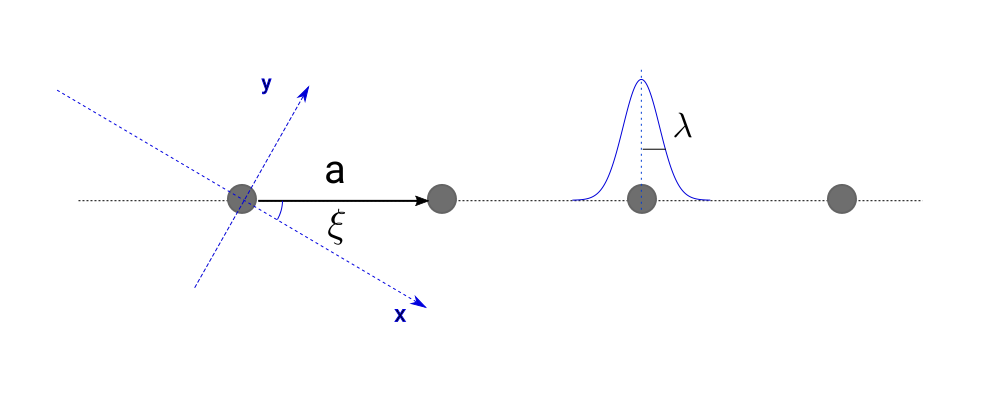
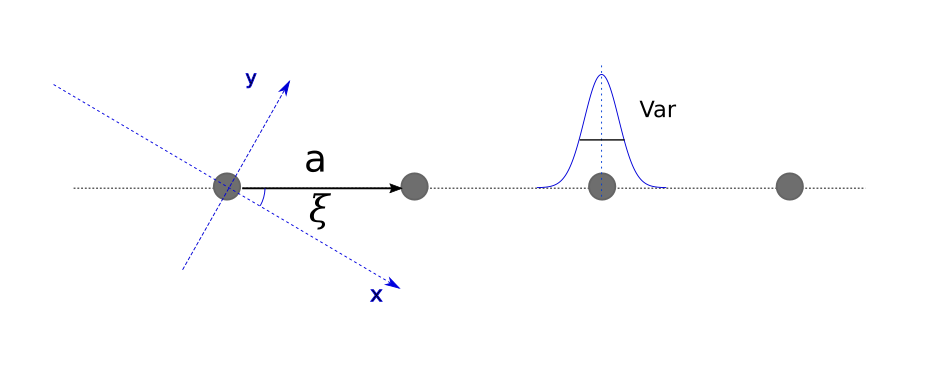
Update interference function 1d tutorial in the part related to decay functions

diff --git a/content/documentation/working-with-python/interference/lattice1d/index.md b/content/documentation/working-with-python/interference/lattice1d/index.md
@@ -1,11 +1,11 @@
 +++
-title = "1D lattice"
+title = "Interference function of one-dimensional lattice"
 weight = 10
 +++
 
-## Interference function of 1D lattice
+## Interference function of one-dimensional lattice
 
-A one-dimensional lattice can be viewed as a chain of particles placed at regular intervals on a single axis. The plot below represents one possible use case, where infinitely long (or very long) boxes are placed at nodes of a 1d lattice to form a grating.
+A one dimensional lattice can be viewed as a chain of particles placed at regular intervals on a single axis. The plot below represents one possible use case, where infinitely long (or very long) boxes are placed at nodes of a 1d lattice to form a grating.
 
 {{< figscg src="particles_at_1d_latice.jpg" width="600px" class="center">}}
 
@@ -31,9 +31,38 @@ xi       : rotation of the lattice with respect to the x-axis, in radians
 
 When the beam azimuthal angle $\varphi_f$ is zero, the beam direction coincides with x-axis. In this case, the $\xi$ angle can be considered as the lattice rotation with respect to the beam.
 
+### Position variance
+
+Position variance parameter `Var`, as depicted on top plot, allows to introduce uncertainty for each particle position around lattice point 
+by applying corresponding Debye-Waller factor.
+
+It can be set using `setPositionVariance(value)` method, where `value` is given in $nm^2$.
+
+{{< highlight python >}}
+
+lattice = InterferenceFunction1DLattice(100*nm, 0.0*deg)
+lattice.setPositionVariance(0.1)
+{{< /highlight >}}
+
+By default variance is set to zero.
+
 ### Decay function
 
-To account for finite size effects of the lattice, a decay function should be assigned to the interference function. This function encodes the loss of coherent scattering from lattice points with increasing distance between them. The origin of this loss of coherence could be attributed to the coherence length of the beam or to the domain structure of the lattice. A decay function can be set using the setDecayFunction(decay) method of the 1D interference function.
+To account for finite size effects of the lattice, a decay function should be assigned to the interference function. This function encodes the loss of coherent scattering from lattice points with increasing distance between them. The origin of this loss of coherence could be attributed to the coherence length of the beam or to the domain structure of the lattice. 
+
+On picture below one dimensional lattice is represented in real space as a probability function to find lattice point at given coordinate.
+In the presence of decay function, attenuating constructive interference, probability can be given as
+$\sum F\_{decay}\cdot\delta(x-na)$.
+
+{{< figscg src="lattice1d_decay_real.png" width="800px" class="center">}}
+
+Fourier transformation, applied to the $P(x)$ distribution, provides scattering amplitude in reciprocal space. For exponential decay low with decay length $\lambda$, 
+as depicted on plot above, it will give Cauchy distribution with characteristic width $1/\lambda$ in reciprocal space, as shown below.
+
+{{< figscg src="lattice1d_decay_reciprocal.png" width="800px" class="center">}}
+
+A decay function can be set using the setDecayFunction(decay) method of the 1D interference function.
+
 
 {{< highlight python >}}
 
@@ -42,25 +71,31 @@ iff.setDecayFunction(FTDecayFunction1DCauchy(1000.0*nm))
 
 {{< /highlight >}}
 
-BornAgain supports four types of one-dimensional decay functions:
+### List of decay functions
 
-{{< highlight python >}}
+BornAgain supports four types of one-dimensional decay functions. 
 
-# One-dimensional Cauchy decay function
-FTDecayFunction1DCauchy(decay_length)
++ `FTDecayFunction1DCauchy(decay_length)`
 
-# One-dimensional Gauss decay function
-FTDecayFunction1DGauss(decay_length)
+One-dimensional Cauchy decay function in reciprocal space,
+corresponds to $exp(-|x|/\lambda)$ in real space.
 
-# One-dimensional triangle decay function
-FTDecayFunction1DTriangle(decay_length)
 
-# One-dimensional pseudo-Voigt decay function
-FTDecayFunction1DVoigt(decay_length, eta)
++ `FTDecayFunction1DGauss(decay_length)`
 
-{{< /highlight >}}
+One-dimensional Gauss decay function in reciprocal space,
+corresponds to $exp(-x^2/(2*\lambda^2))$ in real space.
 
-The parameter `decay_length`, given in nanometers, is used to set the characteristic length scale at which loss of coherence takes place. In the case of the pseudo-Voigt distribution an additional dimensionless parameter `eta` is used to balance between the Gaussian and Cauchy profiles.
++ `FTDecayFunction1DTriangle(decay_length)`
+
+One-dimensional triangle decay function in reciprocal space,
+corresponds to $1-|x|/\lambda$, if $|x|<\lambda$, in real space.
+
++ `FTDecayFunction1DVoigt(decay_length, eta)`
+
+One-dimensional pseudo-Voigt decay function in reciprocal space, corresponds to $eta*Gauss + (1-eta)*Cauchy$.
+
+The parameter $\lambda$ (decay length) is given in nanometers, it is used to set the characteristic length scale at which loss of coherence takes place. In the case of the pseudo-Voigt distribution an additional dimensionless parameter `eta` is used to balance between the Gaussian and Cauchy profiles.
 
 ### Particle Density
 
@@ -87,7 +122,7 @@ To achieve such a setup, the following code should be used.
 {{< highlight python >}}
 
 layout = ba.ParticleLayout()
-
+ 
 box = ba.Particle(material, ba.FormFactorBox(10*nm, 1000*nm, 10*nm))
 layout.addParticle(box)
 layout.setInterferenceFunction(ba.InterferenceFunction1DLattice(40*nm))
